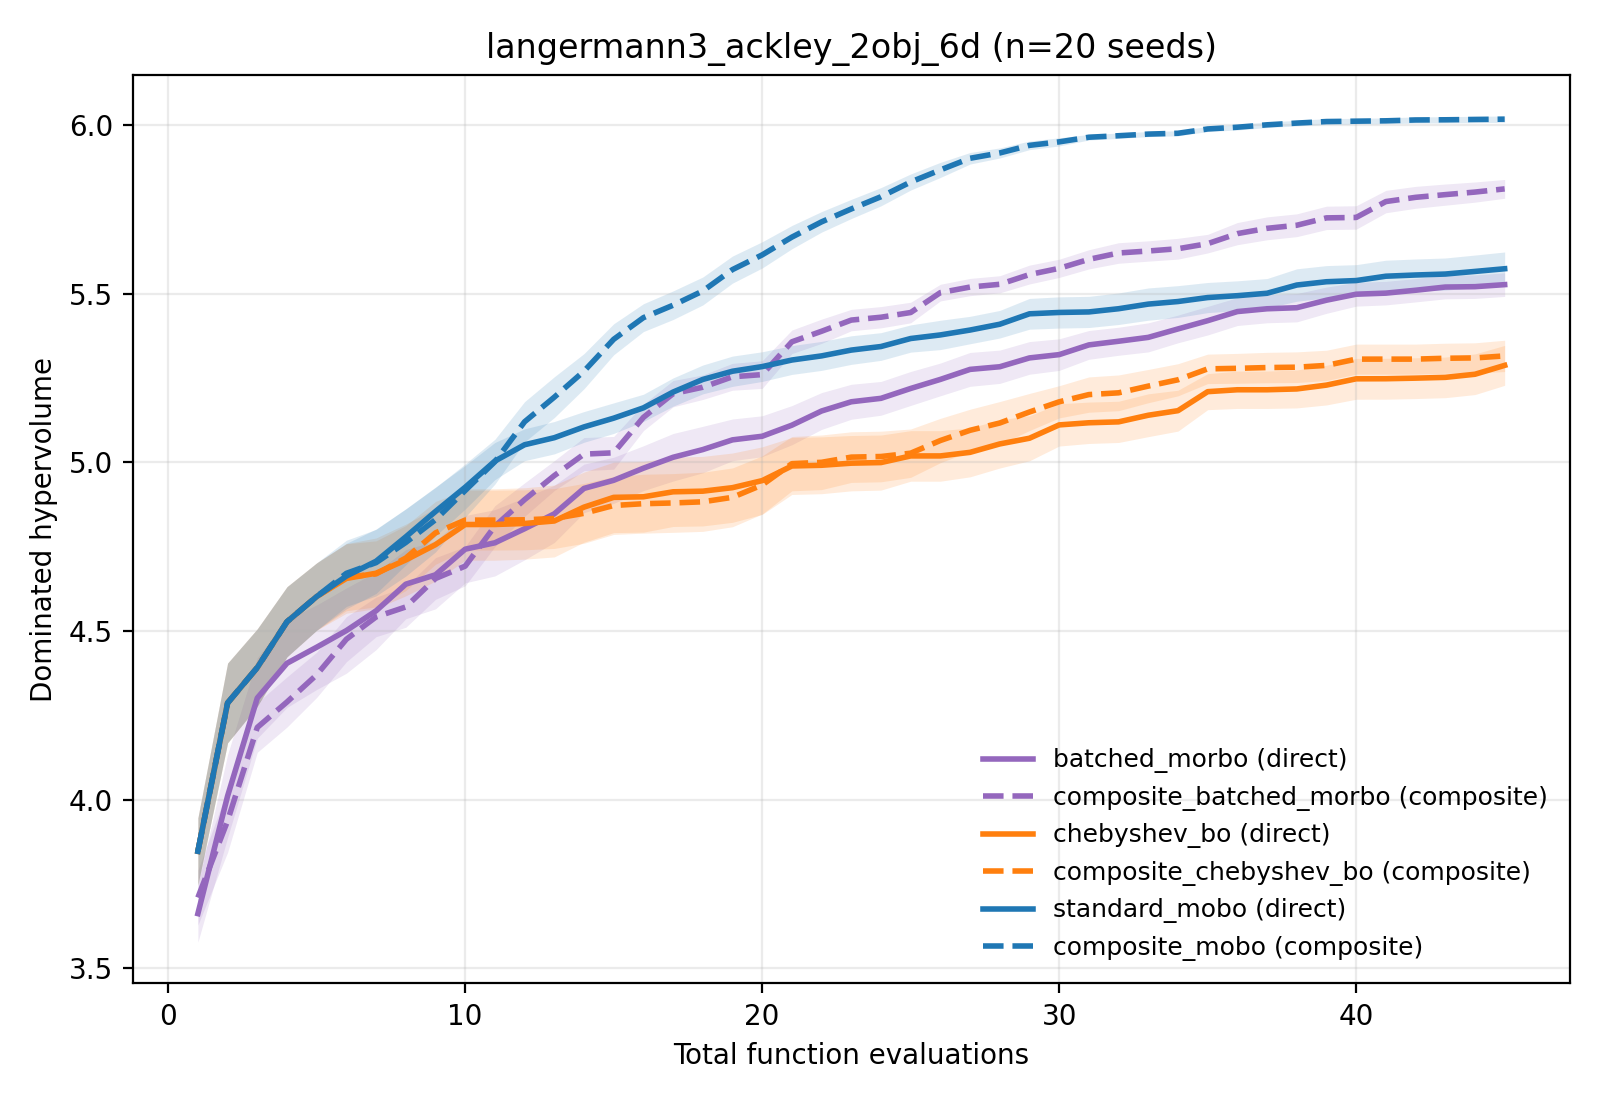
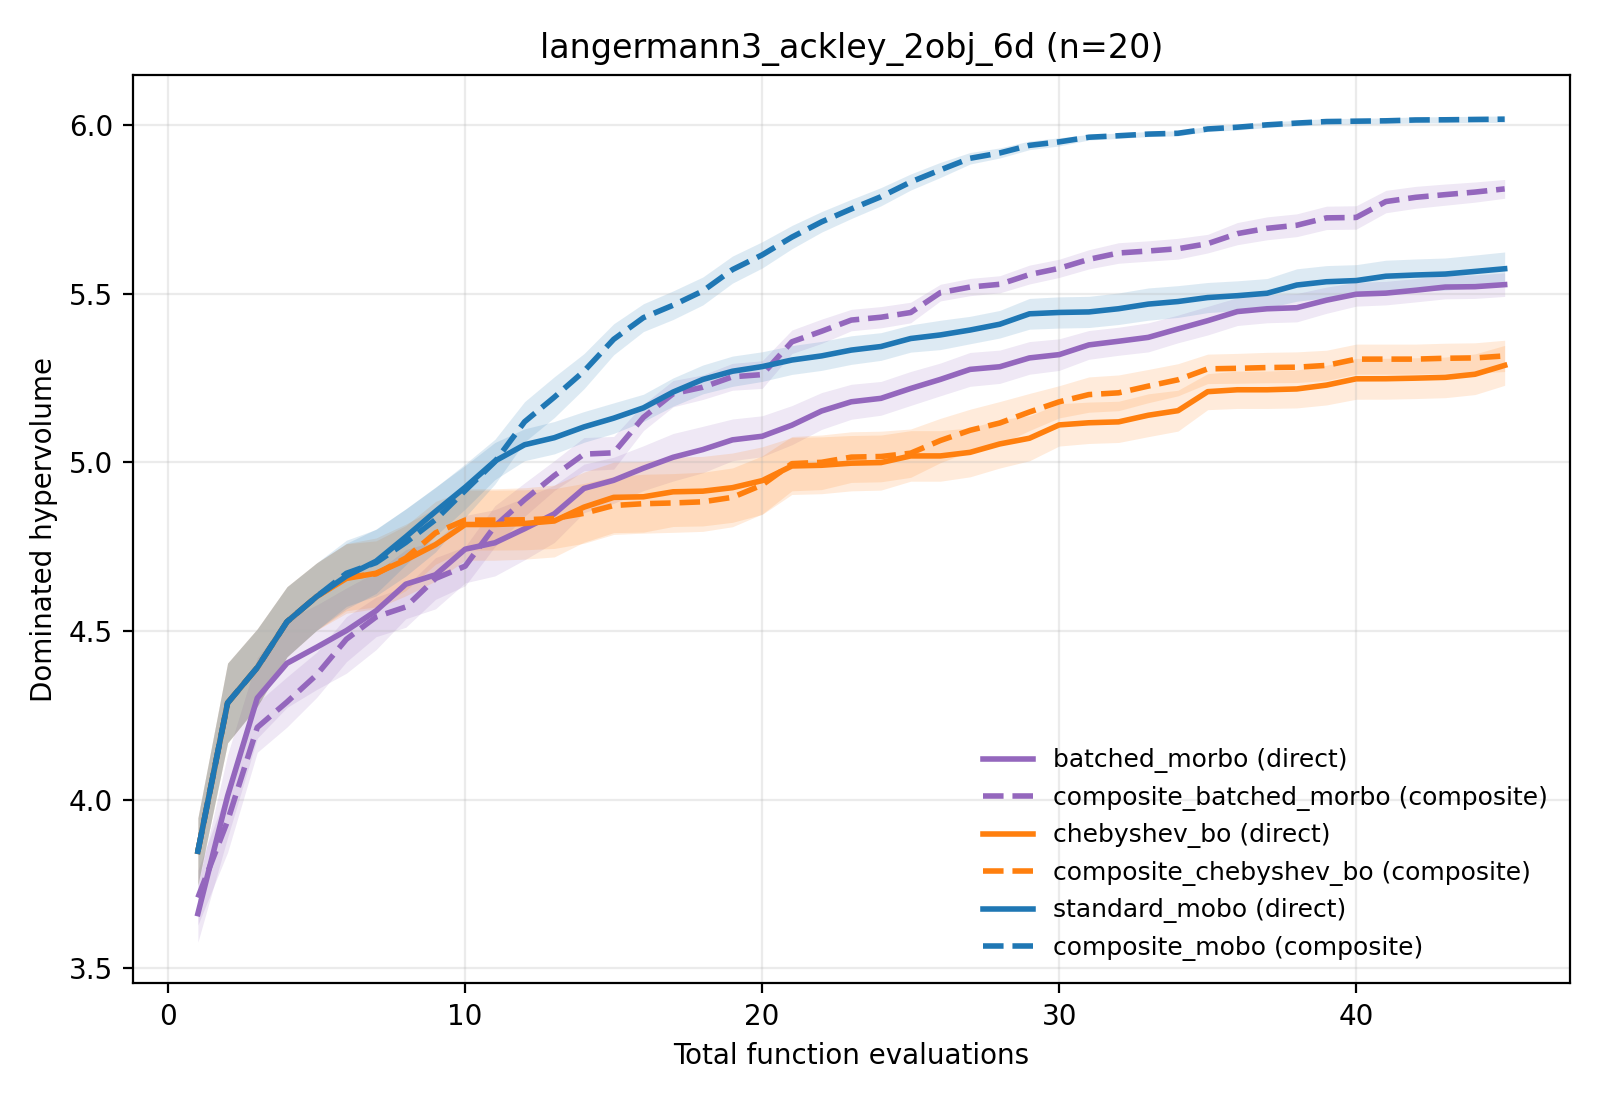
Simplify plot title seed count to a single minimum, not a range

Changed region(s): [[0.3125, 0.0309, 0.75, 0.0618]]

diff --git a/composite_ablation/plot_ablation.py b/composite_ablation/plot_ablation.py
@@ -102,10 +102,10 @@ def plot_benchmark_dir(results_dir: Path, output: Path, title: str = None) -> No
 
     # Seed (trial) count per pair can differ -- e.g. a still-running pair
     # has fewer completed trials than an already-finished one in the same
-    # benchmark directory -- so report the range rather than assuming one
-    # shared number.
-    lo, hi = min(seed_counts), max(seed_counts)
-    seeds_label = f"n={lo} seeds" if lo == hi else f"n={lo}-{hi} seeds"
+    # benchmark directory. Report the minimum: every line in the plot has
+    # AT LEAST this many trials backing it, so it's the honest "how much
+    # data is this plot built on" number, not an average or a range.
+    seeds_label = f"n={min(seed_counts)}"
 
     ax.set_xlabel("Total function evaluations")
     ax.set_ylabel("Dominated hypervolume")
